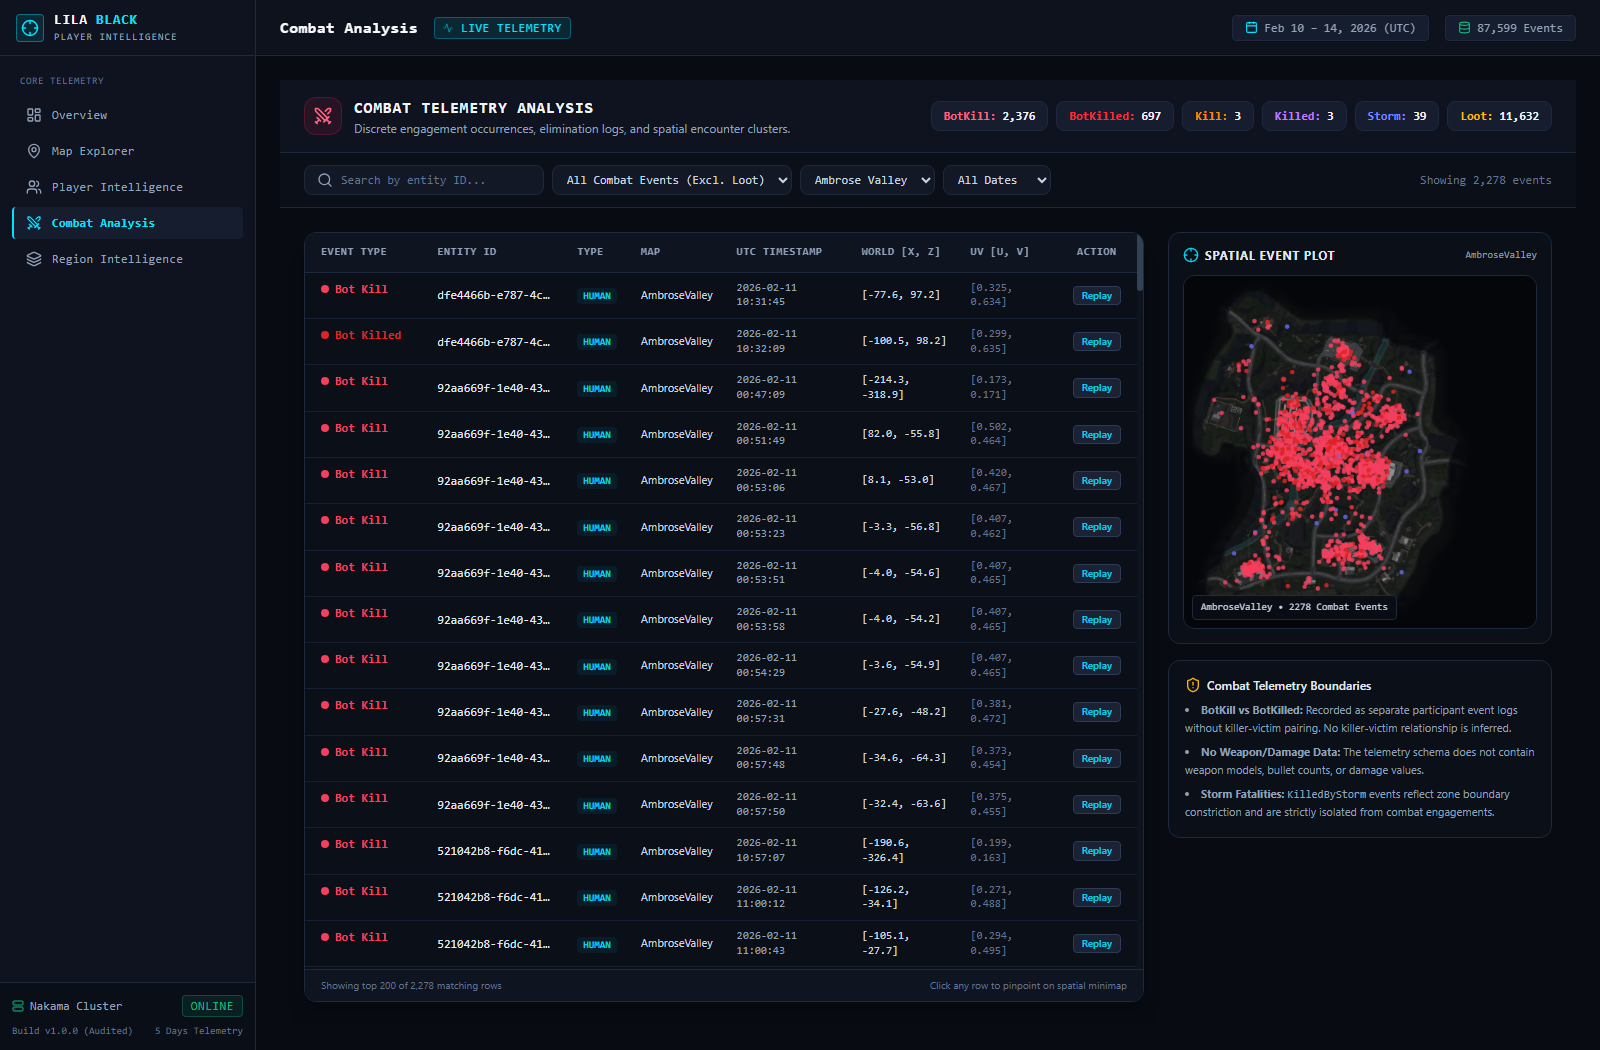
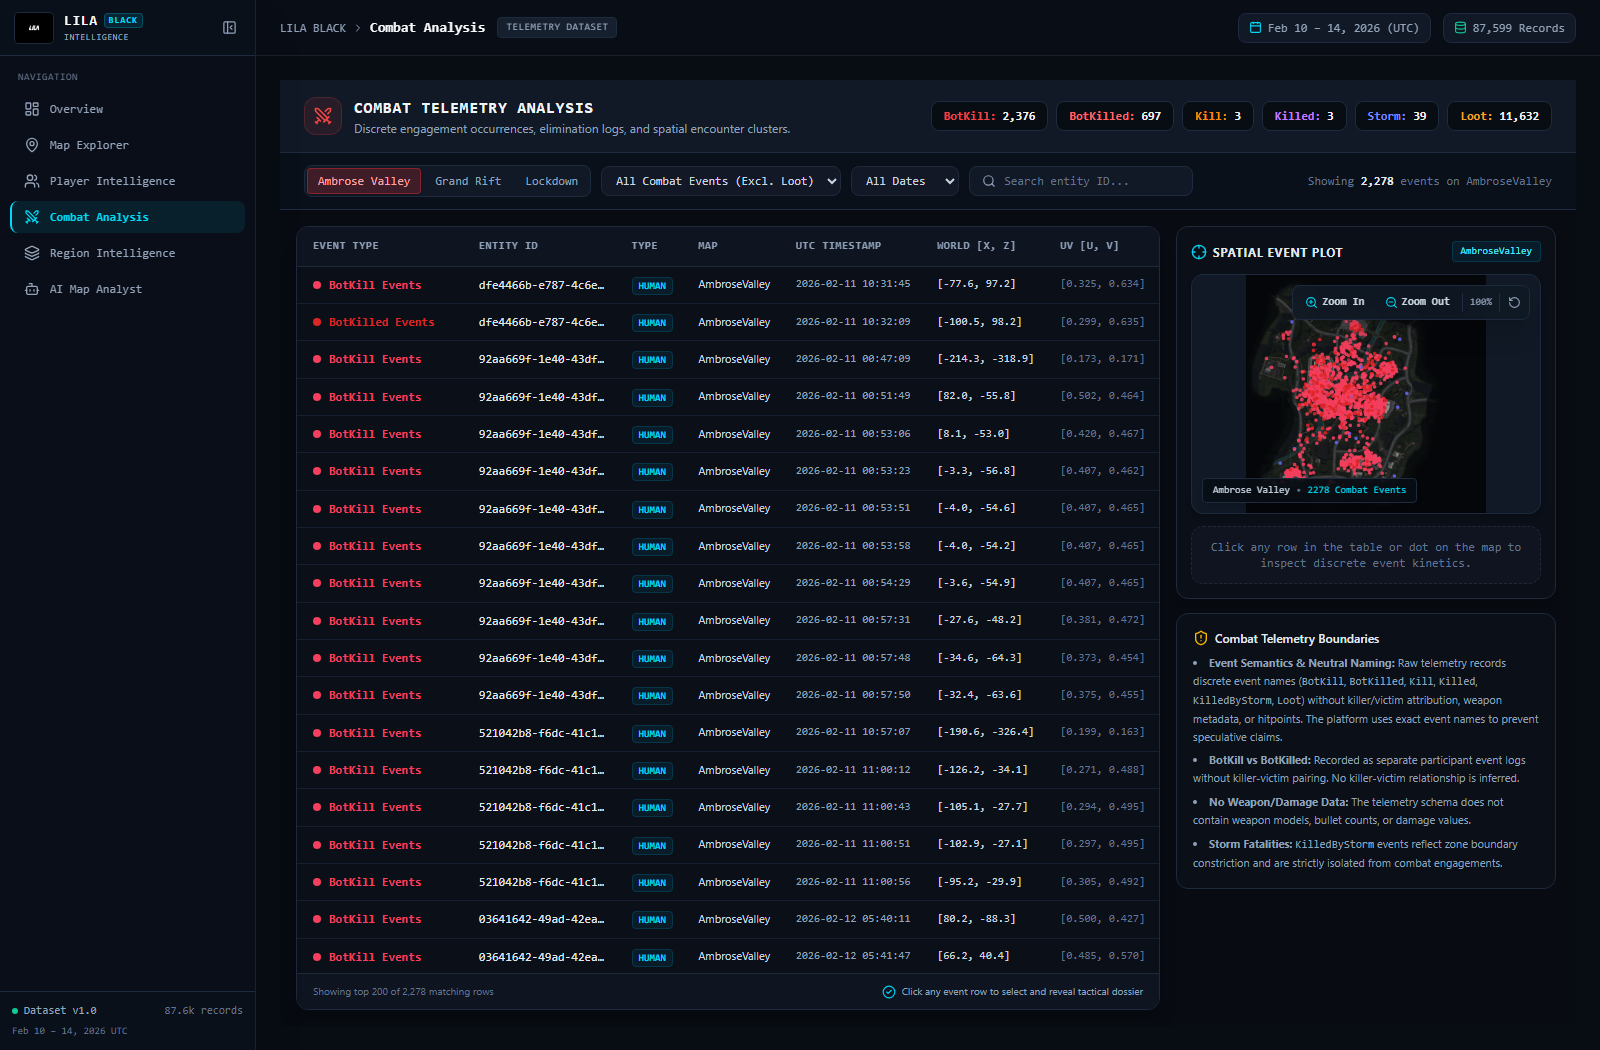
docs: refresh README screenshots

diff --git a/README.md b/README.md
@@ -49,35 +49,35 @@ Multiplayer match telemetry often arrives as massive, fragmented Parquet files w
 
 ### Overview Dashboard
 ![Overview Dashboard](docs/screenshots/overview_page.png)
-*Dataset health, global event tallies, territorial coverage comparisons, and quick-action navigation.*
+*Current dark tactical dashboard with dataset health, event tallies, map distribution, and operational activity charts.*
 
 ### Map Explorer & Trajectory Rendering
 ![Map Explorer](docs/screenshots/map_explorer_page.png)
-*High-performance Canvas 2D renderer displaying continuous player match journeys on Ambrose Valley.*
+*Interactive map view with player journeys, event markers, entity filters, and layer controls.*
 
 ### Timeline Playback & Replay Scrubber
 ![Timeline Playback](docs/screenshots/playback_midway.png)
-*Time-synchronized replay with sub-second interpolation, event ticks, and playback speed controls.*
+*Lockdown match replay with journey paths, event ticks, a scrubber, and playback speed controls.*
 
 ### 64×64 Spatial Heatmap Visualization
 ![Heatmap Visualization](docs/screenshots/heatmap_ambrose_valley.png)
-*Thermal density raster visualizing human movement intensity across 4,096 sectors with sector dossier.*
+*Human movement density across the 64×64 sector grid, with map layer and sector inspection controls.*
 
 ### Player Intelligence Directory
 ![Player Intelligence](docs/screenshots/player_intelligence_page.png)
-*Searchable entity explorer detailing behavioral statistics, lifetime distance, and match histories.*
+*Player directory with searchable entities, behavioral statistics, and match history.*
 
 ### Combat Telemetry Analysis
 ![Combat Analysis](docs/screenshots/combat_analysis_page.png)
-*Tabular log of discrete combat events with interactive spatial minimap pin preview and replay deep-linking.*
+*Combat event analysis with spatial previews and links into match replay.*
 
 ### Region Intelligence & Cross-Map Footprint
 ![Region Intelligence](docs/screenshots/region_intelligence_page.png)
-*Territorial coverage and multi-layer activity breakdown across the 64×64 map partitions.*
+*Territorial coverage and multi-layer activity across the 64×64 map partitions.*
 
 ### AI Map Analyst (Grounded Insights)
 ![AI Map Analyst](docs/screenshots/analyst_insight_response.png)
-*Natural language query response with deterministic metrics, top ground-truth sectors, and deep-link actions.*
+*Grounded loot analysis with dataset metrics, ranked sectors, and an action to focus the result on the map.*
 
 ---
 
